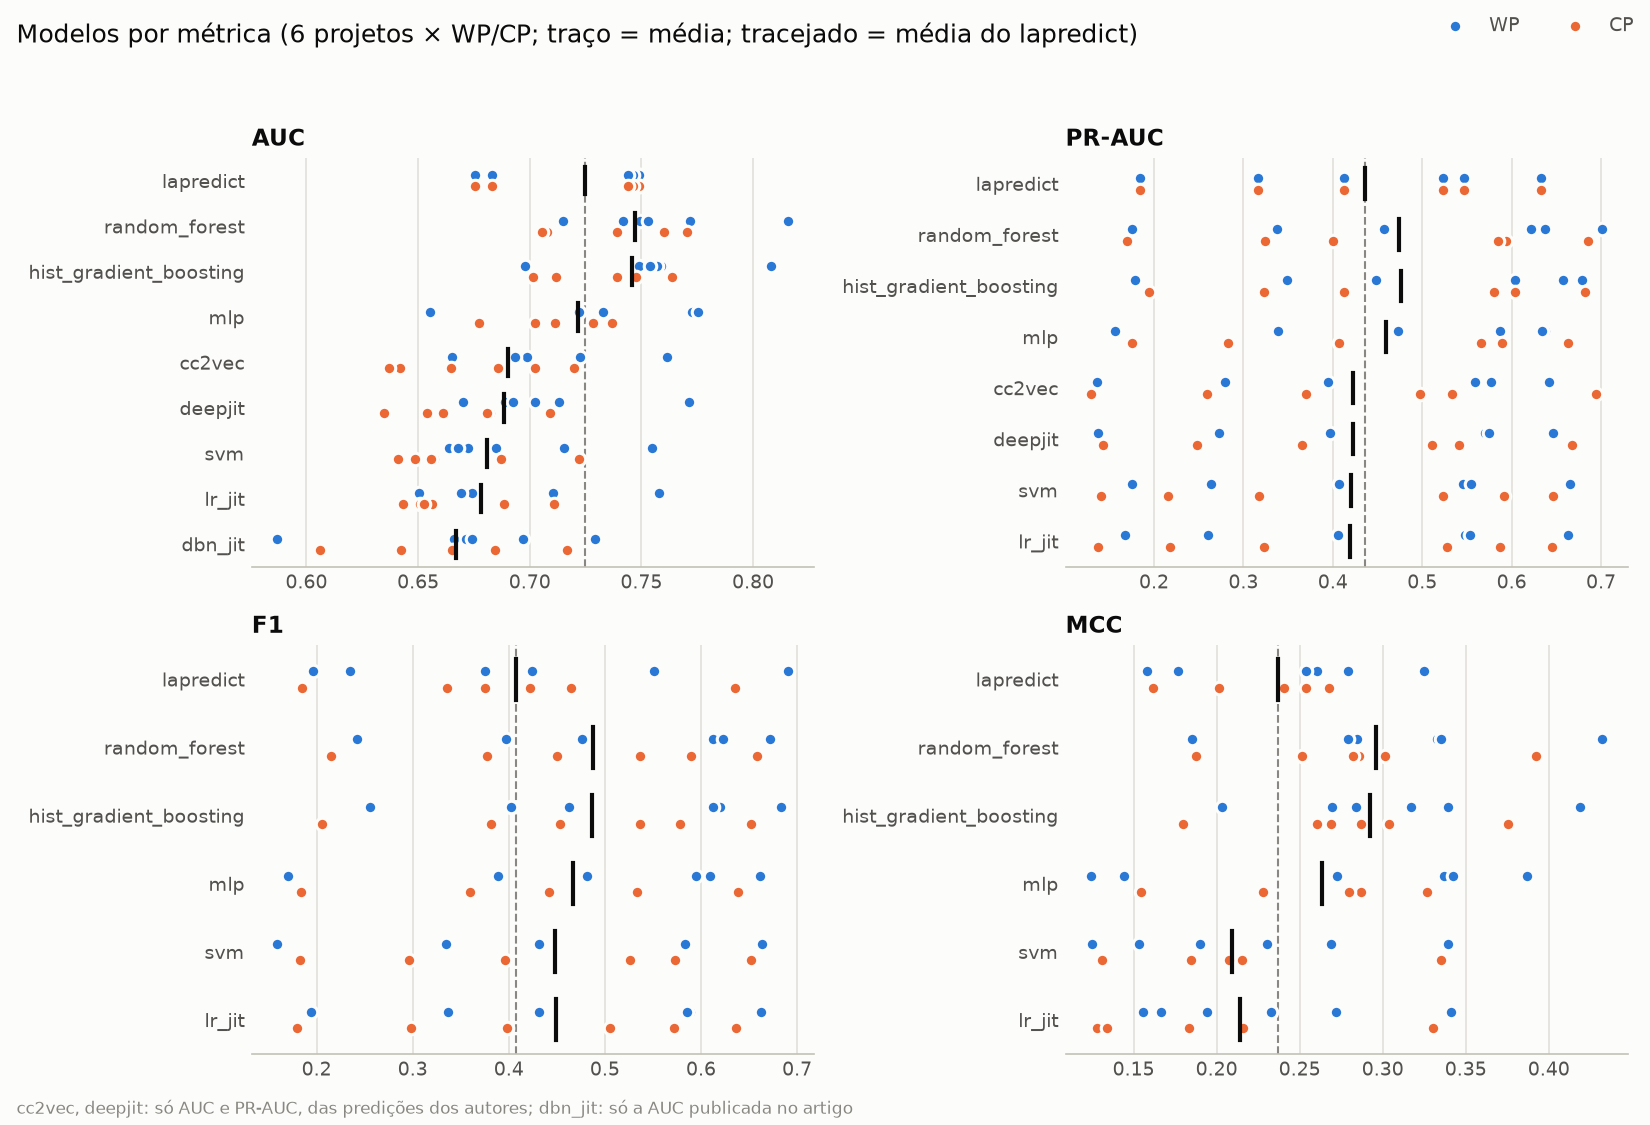
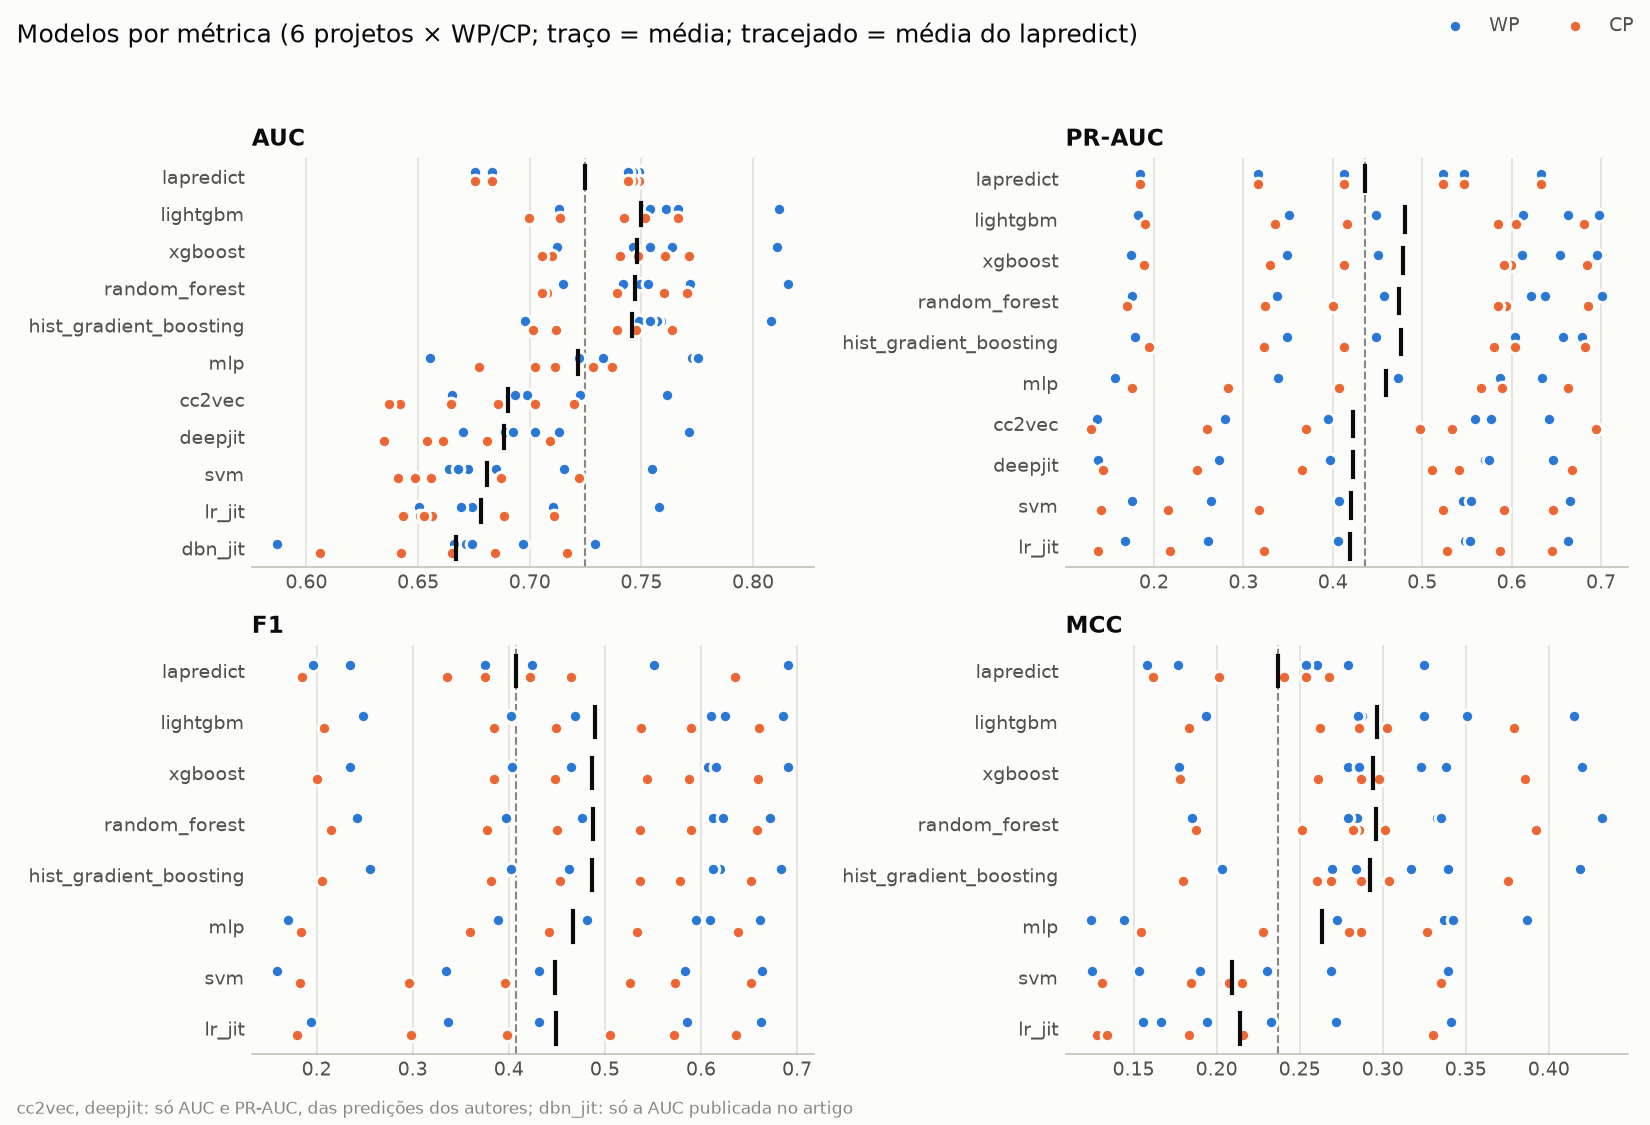
feat(results): atualizar a comparação final com LightGBM e XGBoost

diff --git a/results/comparacao.md b/results/comparacao.md
@@ -7,6 +7,8 @@ Gerado por `python -m src.evaluation.compare`. Não edite à mão.
 | Modelo | AUC WP | AUC CP | PR-AUC WP | PR-AUC CP | F1 WP | F1 CP | MCC WP | MCC CP |
 |---|---|---|---|---|---|---|---|---|
 | lapredict | 0.725 | 0.725 | 0.436 | 0.436 | 0.412 | 0.403 | 0.242 | 0.232 |
+| lightgbm | 0.760 | 0.740 | 0.492 | 0.469 | 0.507 | 0.472 | 0.310 | 0.283 |
+| xgboost | 0.757 | 0.739 | 0.489 | 0.468 | 0.503 | 0.471 | 0.304 | 0.285 |
 | random_forest | 0.758 | 0.737 | 0.488 | 0.460 | 0.504 | 0.471 | 0.308 | 0.283 |
 | hist_gradient_boosting | 0.754 | 0.738 | 0.486 | 0.466 | 0.506 | 0.468 | 0.305 | 0.279 |
 | mlp | 0.732 | 0.711 | 0.471 | 0.447 | 0.484 | 0.448 | 0.268 | 0.259 |
@@ -22,32 +24,40 @@ dbn_jit: só a AUC publicada no artigo (Tabela 8).
 
 ## Algum modelo supera o lapredict?
 
-**Sim:** random_forest em AUC, hist_gradient_boosting em AUC, hist_gradient_boosting em PR-AUC, random_forest em F1, hist_gradient_boosting em F1, random_forest em MCC, hist_gradient_boosting em MCC.
+**Sim:** lightgbm em AUC, xgboost em AUC, random_forest em AUC, hist_gradient_boosting em AUC, lightgbm em PR-AUC, xgboost em PR-AUC, hist_gradient_boosting em PR-AUC, lightgbm em F1, xgboost em F1, random_forest em F1, hist_gradient_boosting em F1, lightgbm em MCC, xgboost em MCC, random_forest em MCC, hist_gradient_boosting em MCC.
 
 | Modelo | Métrica | Pares | Vitórias/derrotas | Mediana da diferença | p (Holm) | Cliff's delta | Resultado |
 |---|---|---|---|---|---|---|---|
+| lightgbm | AUC | 12 | 11/1 | +0.0186 | 0.0088 | +0.556 (grande) | supera |
+| xgboost | AUC | 12 | 10/2 | +0.0199 | 0.0195 | +0.417 (médio) | supera |
 | random_forest | AUC | 12 | 9/3 | +0.0233 | 0.0371 | +0.306 (pequeno) | supera |
-| hist_gradient_boosting | AUC | 12 | 10/2 | +0.0157 | 0.0171 | +0.444 (médio) | supera |
+| hist_gradient_boosting | AUC | 12 | 10/2 | +0.0157 | 0.0195 | +0.444 (médio) | supera |
 | mlp | AUC | 12 | 5/7 | -0.0100 | 0.6772 | -0.194 (pequeno) | empate |
 | cc2vec | AUC | 12 | 3/9 | -0.0352 | 0.0483 | -0.444 (médio) | perde |
 | deepjit | AUC | 12 | 3/9 | -0.0380 | 0.0483 | -0.500 (grande) | perde |
-| svm | AUC | 12 | 2/10 | -0.0342 | 0.0171 | -0.611 (grande) | perde |
-| lr_jit | AUC | 12 | 1/11 | -0.0369 | 0.0171 | -0.667 (grande) | perde |
-| dbn_jit | AUC | 12 | 0/12 | -0.0571 | 0.0039 | -0.778 (grande) | perde |
+| svm | AUC | 12 | 2/10 | -0.0342 | 0.0195 | -0.611 (grande) | perde |
+| lr_jit | AUC | 12 | 1/11 | -0.0369 | 0.0195 | -0.667 (grande) | perde |
+| dbn_jit | AUC | 12 | 0/12 | -0.0571 | 0.0049 | -0.778 (grande) | perde |
+| lightgbm | PR-AUC | 12 | 11/1 | +0.0412 | 0.0088 | +0.222 (pequeno) | supera |
+| xgboost | PR-AUC | 12 | 10/2 | +0.0444 | 0.0239 | +0.194 (pequeno) | supera |
 | random_forest | PR-AUC | 12 | 9/3 | +0.0450 | 0.0967 | +0.167 (pequeno) | empate |
-| hist_gradient_boosting | PR-AUC | 12 | 10/2 | +0.0399 | 0.0171 | +0.194 (pequeno) | supera |
+| hist_gradient_boosting | PR-AUC | 12 | 10/2 | +0.0399 | 0.0195 | +0.194 (pequeno) | supera |
 | mlp | PR-AUC | 12 | 8/4 | +0.0262 | 0.4614 | +0.139 (negligível) | empate |
 | cc2vec | PR-AUC | 12 | 4/8 | -0.0220 | 1.0000 | -0.028 (negligível) | empate |
 | deepjit | PR-AUC | 12 | 4/8 | -0.0139 | 1.0000 | -0.028 (negligível) | empate |
 | svm | PR-AUC | 12 | 4/8 | -0.0082 | 1.0000 | +0.000 (negligível) | empate |
 | lr_jit | PR-AUC | 12 | 5/7 | -0.0122 | 1.0000 | +0.028 (negligível) | empate |
+| lightgbm | F1 | 12 | 11/1 | +0.0270 | 0.0068 | +0.319 (pequeno) | supera |
+| xgboost | F1 | 12 | 11/1 | +0.0272 | 0.0088 | +0.319 (pequeno) | supera |
 | random_forest | F1 | 12 | 11/1 | +0.0295 | 0.0098 | +0.319 (pequeno) | supera |
-| hist_gradient_boosting | F1 | 12 | 11/1 | +0.0290 | 0.0073 | +0.306 (pequeno) | supera |
+| hist_gradient_boosting | F1 | 12 | 11/1 | +0.0290 | 0.0088 | +0.306 (pequeno) | supera |
 | mlp | F1 | 12 | 8/4 | +0.0165 | 0.4541 | +0.208 (pequeno) | empate |
 | svm | F1 | 12 | 6/6 | +0.0024 | 1.0000 | +0.125 (negligível) | empate |
 | lr_jit | F1 | 12 | 6/6 | -0.0017 | 1.0000 | +0.153 (pequeno) | empate |
+| lightgbm | MCC | 12 | 12/0 | +0.0333 | 0.0034 | +0.611 (grande) | supera |
+| xgboost | MCC | 12 | 12/0 | +0.0322 | 0.0034 | +0.597 (grande) | supera |
 | random_forest | MCC | 12 | 11/1 | +0.0299 | 0.0039 | +0.569 (grande) | supera |
-| hist_gradient_boosting | MCC | 12 | 12/0 | +0.0333 | 0.0024 | +0.583 (grande) | supera |
+| hist_gradient_boosting | MCC | 12 | 12/0 | +0.0333 | 0.0034 | +0.583 (grande) | supera |
 | mlp | MCC | 12 | 8/4 | +0.0158 | 0.5288 | +0.306 (pequeno) | empate |
 | svm | MCC | 12 | 3/9 | -0.0313 | 0.5288 | -0.278 (pequeno) | empate |
 | lr_jit | MCC | 12 | 3/9 | -0.0296 | 0.5288 | -0.250 (pequeno) | empate |
